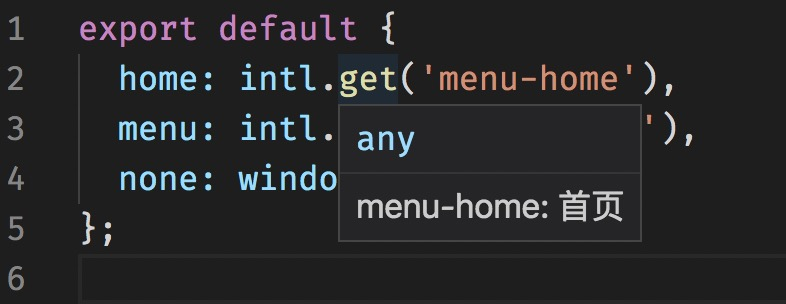
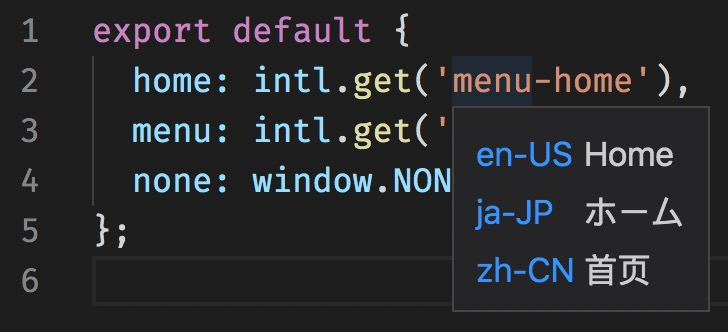
Multi languages supported

diff --git a/src/core/HoverProvider.ts b/src/core/HoverProvider.ts
@@ -1,0 +1,81 @@
+import * as vscode from 'vscode';
+import * as path from 'path';
+import * as fg from 'fast-glob';
+import * as table from 'markdown-table';
+import { Code } from './Code';
+
+export class HoverProvider implements vscode.HoverProvider {
+  static REG_EXP = /(?:[\s{\.]intl\.get|t)\(['"]([^]+?)['"]/g;
+
+  private getKey(document: vscode.TextDocument, position: vscode.Position) {
+    const keyRange = document.getWordRangeAtPosition(
+      position,
+      HoverProvider.REG_EXP
+    );
+    const key = keyRange
+      ? document.getText(keyRange).replace(HoverProvider.REG_EXP, '$1')
+      : undefined;
+
+    if (!key) {
+      return;
+    }
+
+    return key;
+  }
+
+  private createHover(content: string) {
+    const markdownText = new vscode.MarkdownString(content);
+    markdownText.isTrusted = true;
+    return new vscode.Hover(markdownText);
+  }
+
+  public provideHover(
+    document: vscode.TextDocument,
+    position: vscode.Position
+  ) {
+    const key = this.getKey(document, position);
+    if (!key) {
+      return;
+    }
+    const config = vscode.workspace.getConfiguration('i18n_hover') as any;
+    const patterns = config.patterns as string[];
+    const workspaceFolders = vscode.workspace.workspaceFolders;
+    if (workspaceFolders && workspaceFolders[0]) {
+      try {
+        const entries = fg.sync(
+          [
+            ...patterns,
+            ...['!node_modules/**/*', '!bower_components/**/*', '!vendor/**/*']
+          ],
+          {
+            cwd: workspaceFolders[0].uri.fsPath,
+            absolute: true
+          }
+        );
+        if (entries.length === 0) {
+          return this.createHover('Cannot find any locale file');
+        }
+
+        const resultTable = [['', '']];
+
+        for (const entry of entries) {
+          const ext = path.extname(entry);
+          const fileName = path.basename(entry, ext);
+
+          const localeMap = new Code(entry).run();
+          const openFile = vscode.Uri.file(entry);
+          resultTable.push([
+            `[${fileName}](${openFile})`,
+            localeMap[key] || '-'
+          ]);
+        }
+
+        return this.createHover(table(resultTable));
+      } catch (err) {
+        console.error(err);
+        return this.createHover('Error occured');
+      }
+    }
+    return this.createHover('Not in workspace');
+  }
+}

diff --git a/src/extension.ts b/src/extension.ts
@@ -1,5 +1,5 @@
 import * as vscode from 'vscode';
-import HoverProvider from './HoverProvider';
+import { HoverProvider } from './core/HoverProvider';
 
 export function activate(context: vscode.ExtensionContext): void {
   context.subscriptions.push(
@@ -7,9 +7,7 @@ export function activate(context: vscode.ExtensionContext): void {
       [
         { language: 'react', scheme: '*' },
         { language: 'javascriptreact', scheme: '*' },
-        { language: 'typescriptreact', scheme: '*' },
-        { language: 'javascript', scheme: '*' },
-        { language: 'typescript', scheme: '*' }
+        { language: 'javascript', scheme: '*' }
       ],
       new HoverProvider()
     )

diff --git a/src/core/Code.ts b/src/core/Code.ts
@@ -1,0 +1,28 @@
+import * as path from 'path';
+import * as fs from 'fs';
+import * as babel from '@babel/core';
+
+export class Code {
+  private code: string;
+
+  public constructor(filePath: string) {
+    this.code = String(fs.readFileSync(filePath));
+  }
+
+  public transform() {
+    const result = babel.transform(this.code, {
+      babelrc: false,
+      presets: [
+        path.join(__dirname, '/../../../node_modules/@babel/preset-env')
+      ]
+    });
+    if (result && result.code) {
+      return result.code;
+    }
+    return this.code;
+  }
+
+  public run() {
+    return eval(this.transform());
+  }
+}

diff --git a/src/types/module.d.ts b/src/types/module.d.ts
@@ -1,0 +1,4 @@
+declare module 'markdown-table' {
+  const markdownTable: (table: any[], options?: any) => string;
+  export = markdownTable;
+}

diff --git a/testProject/src/locale/ja-JP.js b/testProject/src/locale/ja-JP.js
@@ -1,0 +1,4 @@
+export default {
+  'menu-home': 'ホーム',
+  'menu-login': 'ログインする'
+};

diff --git a/testProject/src/locale/en-US.js b/testProject/src/locale/en-US.js
@@ -1,0 +1,4 @@
+export default {
+  'menu-home': 'Home',
+  'menu-login': 'Login'
+};

diff --git a/README.md b/README.md
@@ -3,6 +3,12 @@
 
 Show i18n message on hover.
 
+## Configuration
+
+| Key                 | Type       | Description                    | Default            |
+| ------------------- | ---------- | ------------------------------ | ------------------ |
+| i18n_hover.patterns | `string[]` | Patterns for Locale File Paths | ["**/locale/*.js"] |
+
 ## Screenshot
 
 ![screenshot](./screenshot.jpg)
